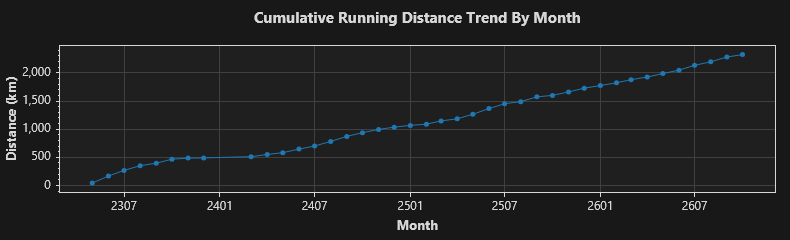
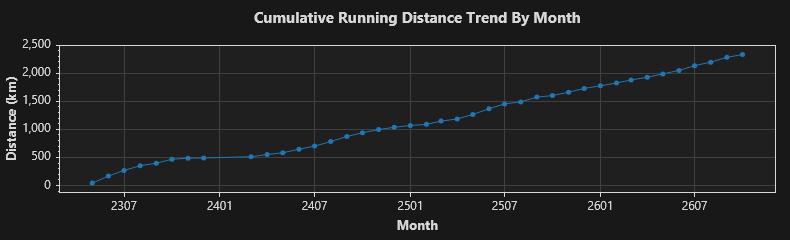
2026/10/21 跑步 6.13 公里

diff --git a/trend.md b/trend.md
@@ -1,4 +1,4 @@
-### Total: 394 days, 2324.9800000000000181898940355 km.
+### Total: 395 days, 2331.1100000000001273292582482 km.
 
 
 ![Monthly](https://github.com/prime167/MyRunningLog/blob/main/data/CumulativeTrendByMonth.png)
